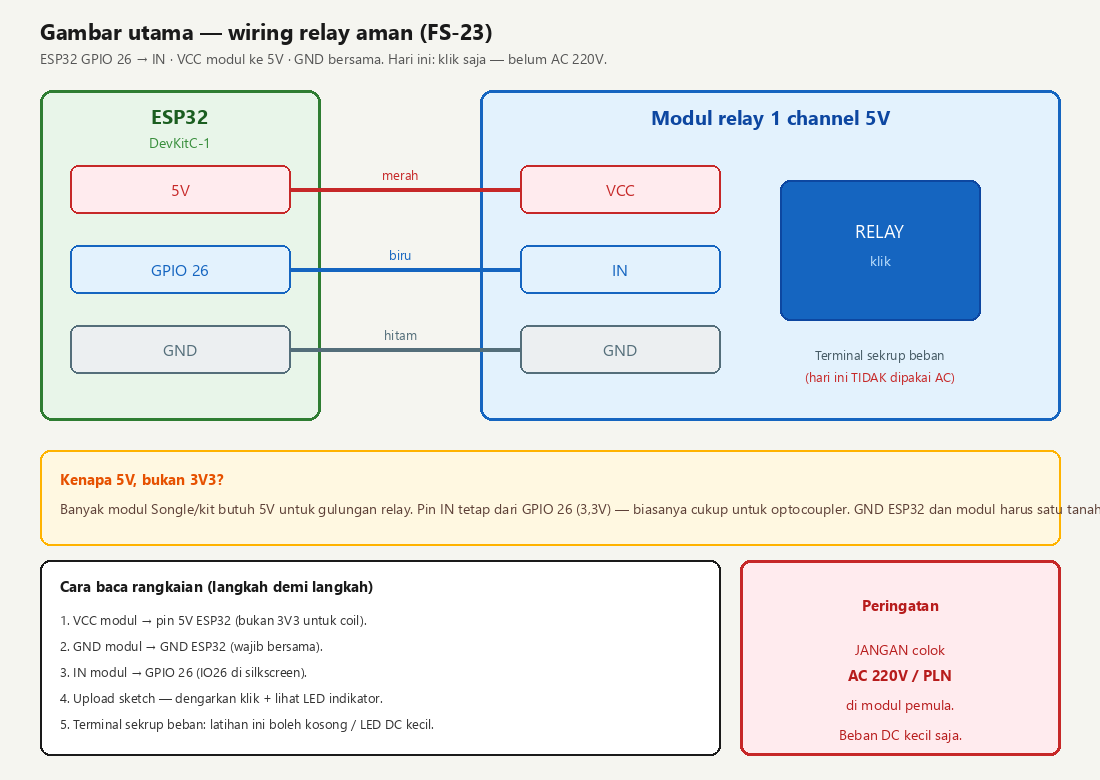
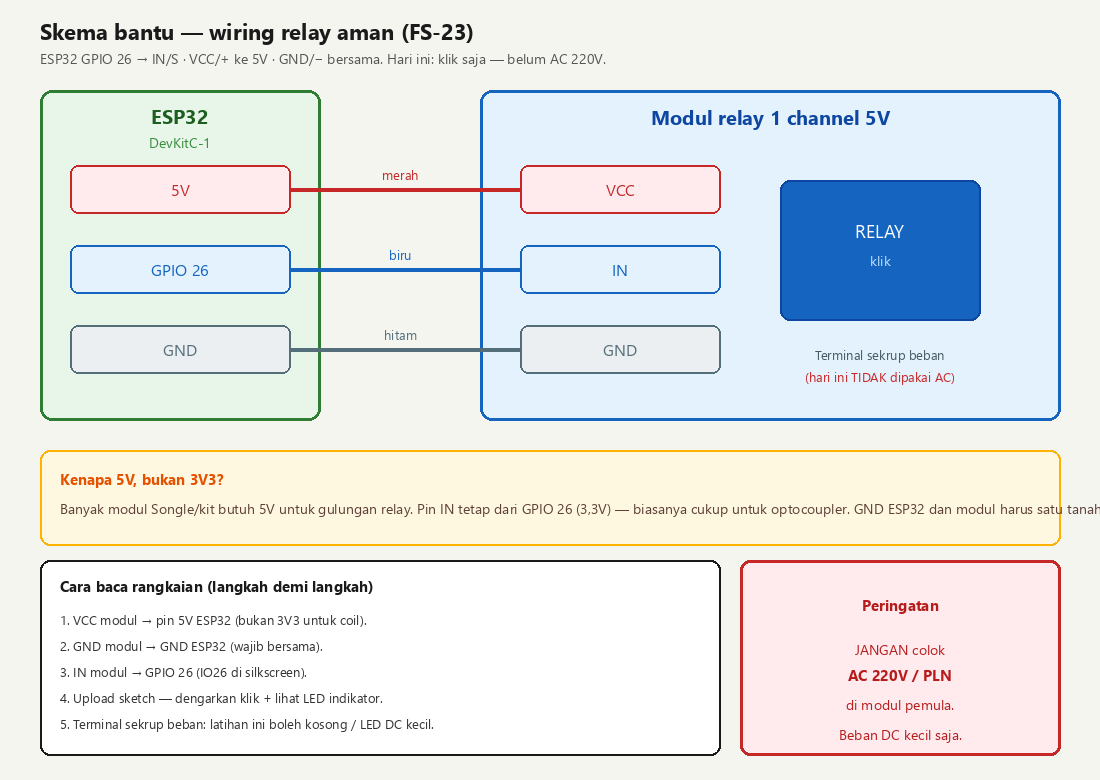
feat(fsiot): #93 gambar utama breadboard relay dari rangkaian user
Foto breadboard jadi gambar utama (5V/IO26/GND + pin S/+/-); skema kotak jadi skema bantu. Audit 66/66.

Changed region(s): [[0.0309, 0.0308, 0.4636, 0.0923], [0.4636, 0.0615, 0.5564, 0.0923]]

diff --git a/database/seeders/Article93Seeder.php b/database/seeders/Article93Seeder.php
@@ -160,10 +160,10 @@ HTML;
     {
         return <<<'HTML'
 <figure style="margin:1.5rem 0;max-width:100%;background:#F5F5F0;border:2.5px solid #1a1a1a;border-radius:8px;padding:0.75rem 0.75rem 0.35rem">
-  <img src="/images/fsiot/fs23-relay-wiring.png" width="1100" height="780" alt="Gambar utama — wiring relay GPIO 26 ke modul 5V" loading="eager" style="width:100%;height:auto;max-height:560px;object-fit:contain;border-radius:6px;background:#F5F5F0">
+  <img src="/images/fsiot/fs23-relay-breadboard.png" width="1236" height="756" alt="Gambar utama — rangkaian relay di breadboard ke GPIO 26 (IO26)" loading="eager" style="width:100%;height:auto;max-height:560px;object-fit:contain;border-radius:6px;background:#fff">
   <figcaption style="font-size:0.85rem;margin-top:0.5rem;color:#1a1a1a;">
-    <strong>Gambar utama — wiring relay aman.</strong> Merah: <strong>5V</strong> → VCC modul · biru: <strong>GPIO 26</strong> → IN · hitam: <strong>GND</strong> bersama. Terminal sekrup beban hari ini boleh kosong — yang penting klik + LED indikator.
-    <br>Sumber gambar: diagram berlabel buatan Koding Indonesia (FS-23). Fungsi keluaran digital: <a href="https://docs.arduino.cc/language-reference/en/functions/digital-io/digitalwrite/" rel="noopener noreferrer" target="_blank">Arduino Docs — digitalWrite</a>.
+    <strong>Gambar utama — rangkaian relay di breadboard.</strong> Merah: <strong>5V</strong> → pin <strong>+</strong> (VCC) modul · biru: <strong>IO26 / GPIO 26</strong> → pin <strong>S</strong> (IN) · hitam: <strong>GND</strong> → pin <strong>−</strong>. Terminal sekrup NC/COM/NO hari ini boleh kosong — yang penting klik + LED <em>ON</em>. Cocokkan label di modul &amp; silkscreen board kamu (clone boleh beda bentuk).
+    <br>Sumber gambar: diagram rangkaian buatan Koding Indonesia (FS-23).
   </figcaption>
 </figure>
 HTML;
@@ -173,9 +173,35 @@ HTML;
     {
         return <<<'HTML'
 <figure style="margin:1.5rem 0;max-width:100%;background:#F5F5F0;border:2.5px solid #1a1a1a;border-radius:8px;padding:0.75rem 0.75rem 0.35rem">
-  <img src="/images/fsiot/fs23-relay-wiring.png" width="1100" height="780" alt="Main figure — relay wiring GPIO 26 to 5V module" loading="eager" style="width:100%;height:auto;max-height:560px;object-fit:contain;border-radius:6px;background:#F5F5F0">
+  <img src="/images/fsiot/fs23-relay-breadboard.png" width="1236" height="756" alt="Main figure — relay breadboard wiring to GPIO 26 (IO26)" loading="eager" style="width:100%;height:auto;max-height:560px;object-fit:contain;border-radius:6px;background:#fff">
   <figcaption style="font-size:0.85rem;margin-top:0.5rem;color:#1a1a1a;">
-    <strong>Main figure — safe relay wiring.</strong> Red: <strong>5V</strong> → module VCC · blue: <strong>GPIO 26</strong> → IN · black: shared <strong>GND</strong>. Load screw terminals may stay empty today — the click + indicator LED matter most.
+    <strong>Main figure — relay on a breadboard.</strong> Red: <strong>5V</strong> → module <strong>+</strong> (VCC) · blue: <strong>IO26 / GPIO 26</strong> → <strong>S</strong> (IN) · black: <strong>GND</strong> → <strong>−</strong>. NC/COM/NO screw terminals may stay empty today — the click + <em>ON</em> LED matter most. Match labels on your module and board silkscreen (clones may look different).
+    <br>Image source: wiring diagram by Koding Indonesia (FS-23).
+  </figcaption>
+</figure>
+HTML;
+    }
+
+    private function schemaWiringFigureId(): string
+    {
+        return <<<'HTML'
+<figure style="margin:1.5rem 0;max-width:100%;background:#F5F5F0;border:2.5px solid #1a1a1a;border-radius:8px;padding:0.75rem 0.75rem 0.35rem">
+  <img src="/images/fsiot/fs23-relay-wiring.png" width="1100" height="780" alt="Skema bantu — ringkasan pin relay ke ESP32 GPIO 26" loading="eager" style="width:100%;height:auto;max-height:520px;object-fit:contain;border-radius:6px;background:#F5F5F0">
+  <figcaption style="font-size:0.85rem;margin-top:0.5rem;color:#1a1a1a;">
+    <strong>Skema bantu (ringkas).</strong> Sama dengan gambar utama: 5V → VCC/+ · GPIO 26 → IN/S · GND → GND/−. Pakai ini jika kamu lebih nyaman membaca kotak pin daripada foto breadboard. Terminal beban: belum AC 220V.
+    <br>Sumber gambar: diagram berlabel buatan Koding Indonesia (FS-23). Fungsi keluaran digital: <a href="https://docs.arduino.cc/language-reference/en/functions/digital-io/digitalwrite/" rel="noopener noreferrer" target="_blank">Arduino Docs — digitalWrite</a>.
+  </figcaption>
+</figure>
+HTML;
+    }
+
+    private function schemaWiringFigureEn(): string
+    {
+        return <<<'HTML'
+<figure style="margin:1.5rem 0;max-width:100%;background:#F5F5F0;border:2.5px solid #1a1a1a;border-radius:8px;padding:0.75rem 0.75rem 0.35rem">
+  <img src="/images/fsiot/fs23-relay-wiring.png" width="1100" height="780" alt="Helper schematic — relay pins to ESP32 GPIO 26" loading="eager" style="width:100%;height:auto;max-height:520px;object-fit:contain;border-radius:6px;background:#F5F5F0">
+  <figcaption style="font-size:0.85rem;margin-top:0.5rem;color:#1a1a1a;">
+    <strong>Helper schematic.</strong> Same as the main figure: 5V → VCC/+ · GPIO 26 → IN/S · GND → GND/−. Use this if you prefer labeled pin boxes over the breadboard photo. Load terminals: no AC mains yet.
     <br>Image source: labeled diagram by Koding Indonesia (FS-23). Digital output: <a href="https://docs.arduino.cc/language-reference/en/functions/digital-io/digitalwrite/" rel="noopener noreferrer" target="_blank">Arduino Docs — digitalWrite</a>.
   </figcaption>
 </figure>
@@ -284,6 +310,7 @@ SVG;
         $board = $this->boardFigureId();
         $kit = $this->kitFigureId();
         $main = $this->mainWiringFigureId();
+        $schema = $this->schemaWiringFigureId();
         $sense = $this->senseSvgId();
         $active = $this->activeSvgId();
 
@@ -296,7 +323,7 @@ SVG;
 <p><strong>Cara pakai artikel ini (urutan kerja):</strong></p>
 <ol>
 <li>Baca peringatan aman: <strong>belum AC 220V / PLN</strong>.</li>
-<li>Rakit 3 kabel: 5V · GND · <strong>GPIO 26</strong>. Cocokkan <strong>gambar utama</strong>.</li>
+<li>Rakit 3 kabel: 5V · GND · <strong>GPIO 26</strong>. Cocokkan <strong>gambar utama</strong> (foto breadboard).</li>
 <li><strong>Buka Arduino IDE</strong> (bukan Laragon / terminal web).</li>
 <li>Buat sketch <code>FS23_relay_klik</code> → <strong>Verify</strong> → <strong>Upload</strong>.</li>
 <li>Dengarkan klik + lihat LED indikator + baca Serial baud <strong>115200</strong>.</li>
@@ -319,13 +346,14 @@ SVG;
 {$board}
 {$kit}
 {$main}
+{$schema}
 
 <h2>Wiring relay (bahasa manusia)</h2>
 <p><strong>Rangkaian kontrol (3 kabel):</strong></p>
 <ul>
-<li><strong>VCC</strong> modul → pin <strong>5V</strong> ESP32</li>
-<li><strong>GND</strong> modul → <strong>GND</strong> ESP32</li>
-<li><strong>IN</strong> modul → <strong>GPIO 26</strong> (sering tertulis <strong>IO26</strong>)</li>
+<li><strong>VCC</strong> / pin <strong>+</strong> modul → pin <strong>5V</strong> ESP32</li>
+<li><strong>GND</strong> / pin <strong>−</strong> modul → <strong>GND</strong> ESP32</li>
+<li><strong>IN</strong> / pin <strong>S</strong> modul → <strong>GPIO 26</strong> (sering tertulis <strong>IO26</strong>)</li>
 </ul>
 <p><strong>Kenapa GPIO 26?</strong> Itu pin relay di tabel global FS-17 — konsisten sampai automasi lokal berikutnya.</p>
 <p><strong>Terminal sekrup (COM / NO / NC):</strong> itu jalur <em>beban</em>. Di latihan pertama, boleh kosong. Kalau mau uji ekstra aman: LED + resistor 220 Ω di sisi DC kecil saja — <strong>bukan</strong> kabel PLN.</p>
@@ -414,6 +442,7 @@ HTML;
         $board = $this->boardFigureEn();
         $kit = $this->kitFigureEn();
         $main = $this->mainWiringFigureEn();
+        $schema = $this->schemaWiringFigureEn();
         $sense = $this->senseSvgEn();
         $active = $this->activeSvgEn();
 
@@ -426,7 +455,7 @@ HTML;
 <p><strong>How to use this article (work order):</strong></p>
 <ol>
 <li>Read the safety note: <strong>no AC mains / 220V yet</strong>.</li>
-<li>Build 3 wires: 5V · GND · <strong>GPIO 26</strong>. Match the <strong>main figure</strong>.</li>
+<li>Build 3 wires: 5V · GND · <strong>GPIO 26</strong>. Match the <strong>main figure</strong> (breadboard photo).</li>
 <li><strong>Open Arduino IDE</strong> (not Laragon / a web terminal).</li>
 <li>Create sketch <code>FS23_relay_klik</code> → <strong>Verify</strong> → <strong>Upload</strong>.</li>
 <li>Listen for the click + watch the indicator LED + read Serial at baud <strong>115200</strong>.</li>
@@ -449,13 +478,14 @@ HTML;
 {$board}
 {$kit}
 {$main}
+{$schema}
 
 <h2>Relay wiring (human language)</h2>
 <p><strong>Control wiring (3 wires):</strong></p>
 <ul>
-<li>Module <strong>VCC</strong> → ESP32 <strong>5V</strong></li>
-<li>Module <strong>GND</strong> → ESP32 <strong>GND</strong></li>
-<li>Module <strong>IN</strong> → <strong>GPIO 26</strong> (often labeled <strong>IO26</strong>)</li>
+<li>Module <strong>VCC</strong> / <strong>+</strong> → ESP32 <strong>5V</strong></li>
+<li>Module <strong>GND</strong> / <strong>−</strong> → ESP32 <strong>GND</strong></li>
+<li>Module <strong>IN</strong> / <strong>S</strong> → <strong>GPIO 26</strong> (often labeled <strong>IO26</strong>)</li>
 </ul>
 <p><strong>Why GPIO 26?</strong> That is the relay pin in the FS-17 global table — consistent through the next local-automation modules.</p>
 <p><strong>Screw terminals (COM / NO / NC):</strong> that is the <em>load</em> path. For the first practice they may stay empty. Extra-safe optional test: a small DC LED + 220 Ω only — <strong>not</strong> mains cable.</p>

diff --git a/scripts/audit-article93.php b/scripts/audit-article93.php
@@ -52,10 +52,14 @@ check('no beginner word in body EN', ! preg_match('/\bbeginner\b/i', $en));
 check('friendly tip labels ID', str_contains($id, 'Intinya:') && str_contains($id, 'Cara pakai artikel ini') && str_contains($id, 'Analogi:'));
 check('friendly tip labels EN', str_contains($en, 'In short:') && str_contains($en, 'How to use this article') && str_contains($en, 'Analogy:'));
 check('H2 parity', substr_count($id, '<h2') === substr_count($en, '<h2'));
-check('figures both >= 6', substr_count($id, '<figure') >= 6 && substr_count($en, '<figure') >= 6);
+check('figures both >= 7', substr_count($id, '<figure') >= 7 && substr_count($en, '<figure') >= 7);
 check('wiring PNG asset', str_contains($id, 'fs23-relay-wiring.png') && is_file(__DIR__.'/../public/images/fsiot/fs23-relay-wiring.png'));
+check('breadboard PNG asset', str_contains($id, 'fs23-relay-breadboard.png') && is_file(__DIR__.'/../public/images/fsiot/fs23-relay-breadboard.png'));
 check('Gambar utama label ID', str_contains($id, 'Gambar utama'));
 check('Main figure label EN', str_contains($en, 'Main figure'));
+check('Skema bantu ID', str_contains($id, 'Skema bantu'));
+check('Helper schematic EN', str_contains($en, 'Helper schematic'));
+check('S/+/- aliases ID', str_contains($id, 'pin <strong>S</strong>') || str_contains($id, 'pin <strong>+</strong>'));
 check('cover asset exists', is_file(__DIR__.'/../public/images/fsiot/fs23-cover-relay.jpg'));
 check('cover set-if-blank in seeder', str_contains($src, 'fs23-cover-relay.jpg') && str_contains($src, 'cover_image'));
 check('kit-relay asset', str_contains($id, 'kit-relay-5v.jpg') && is_file(__DIR__.'/../public/images/fsiot/kit-relay-5v.jpg'));

diff --git a/app/Http/Controllers/DeployController.php b/app/Http/Controllers/DeployController.php
@@ -8460,8 +8460,10 @@ class DeployController extends Controller
             'Cara menguji perintah di atas',
             'EN (7)',
             'kit-relay-5v.jpg',
+            'fs23-relay-breadboard.png',
             'fs23-relay-wiring.png',
             'Gambar utama',
+            'Skema bantu',
             '220V',
             'AKTIF_LOW',
             'Arduino Docs',
@@ -8494,6 +8496,8 @@ class DeployController extends Controller
             'Common mistakes',
             'How to test the commands above',
             'Main figure',
+            'Helper schematic',
+            'fs23-relay-breadboard.png',
             'fs23-relay-wiring.png',
             'ACTIVE_LOW',
             '220V',
